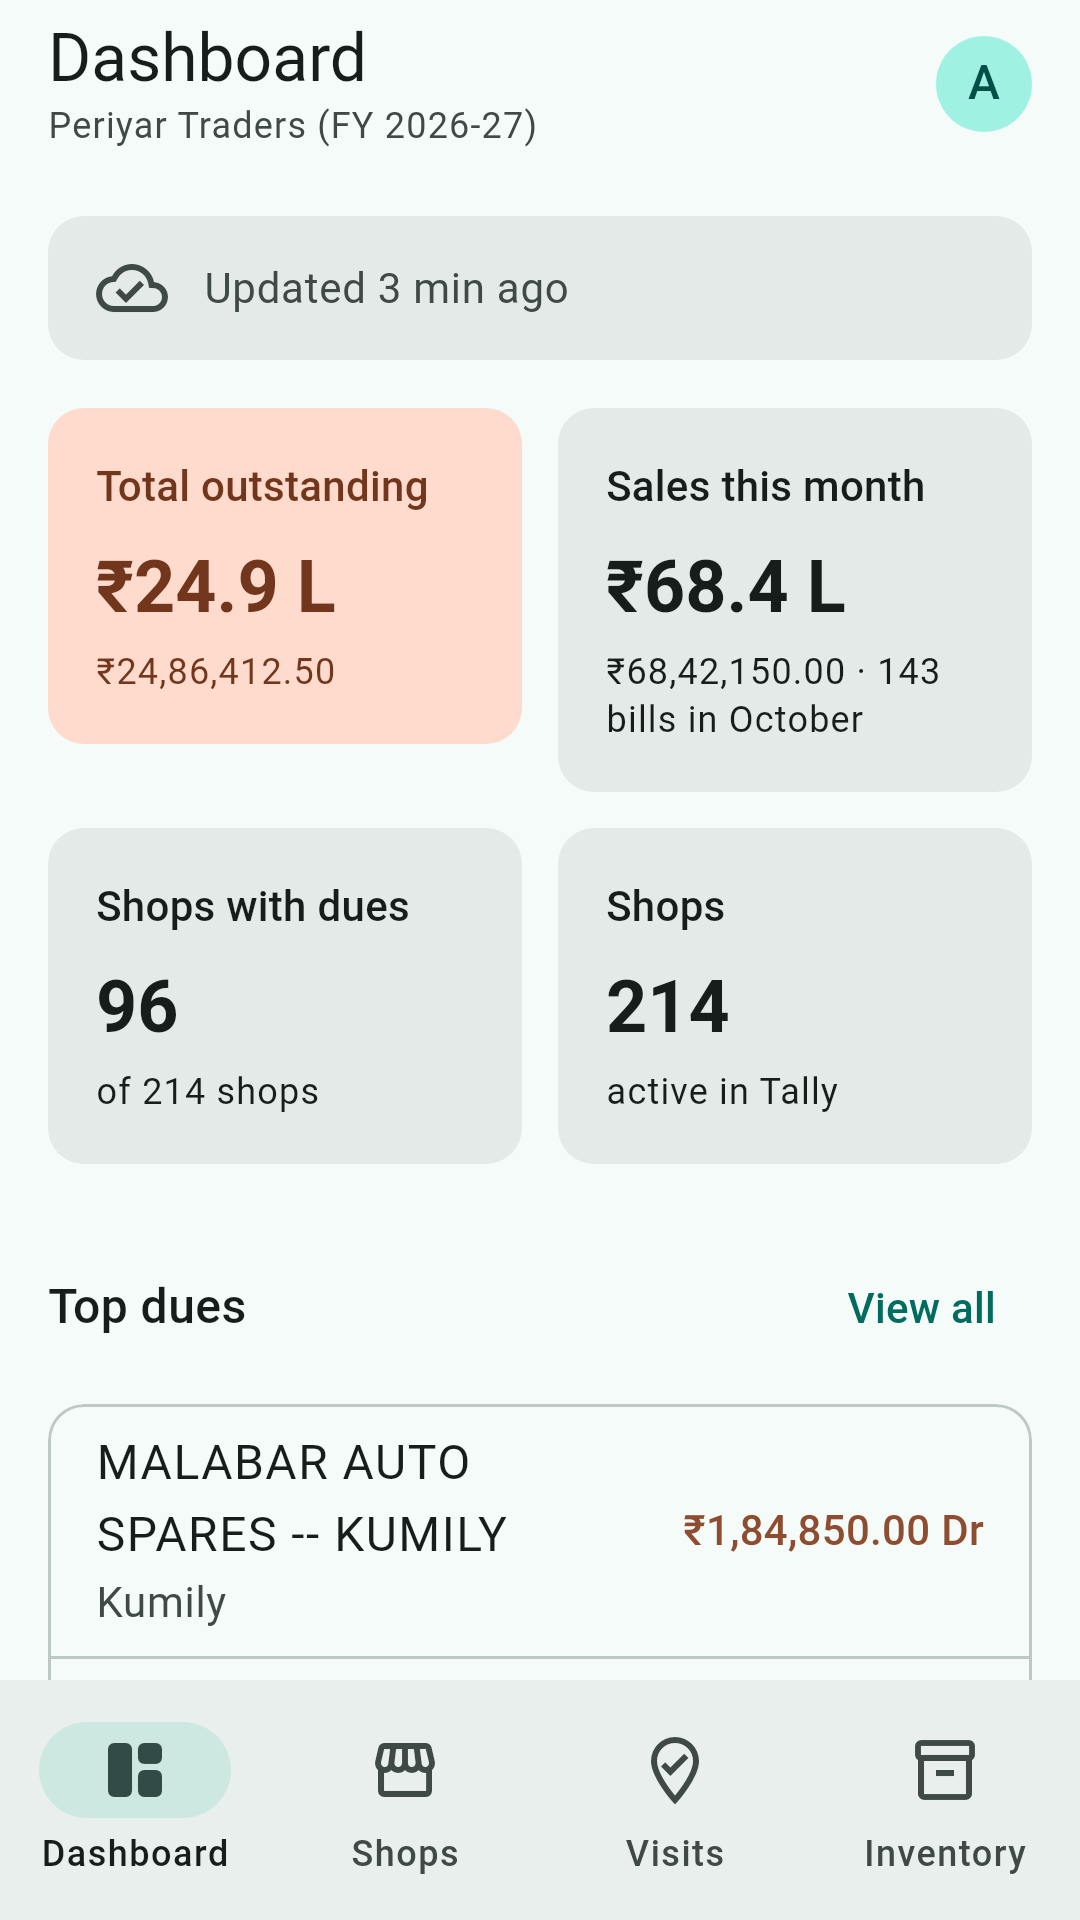
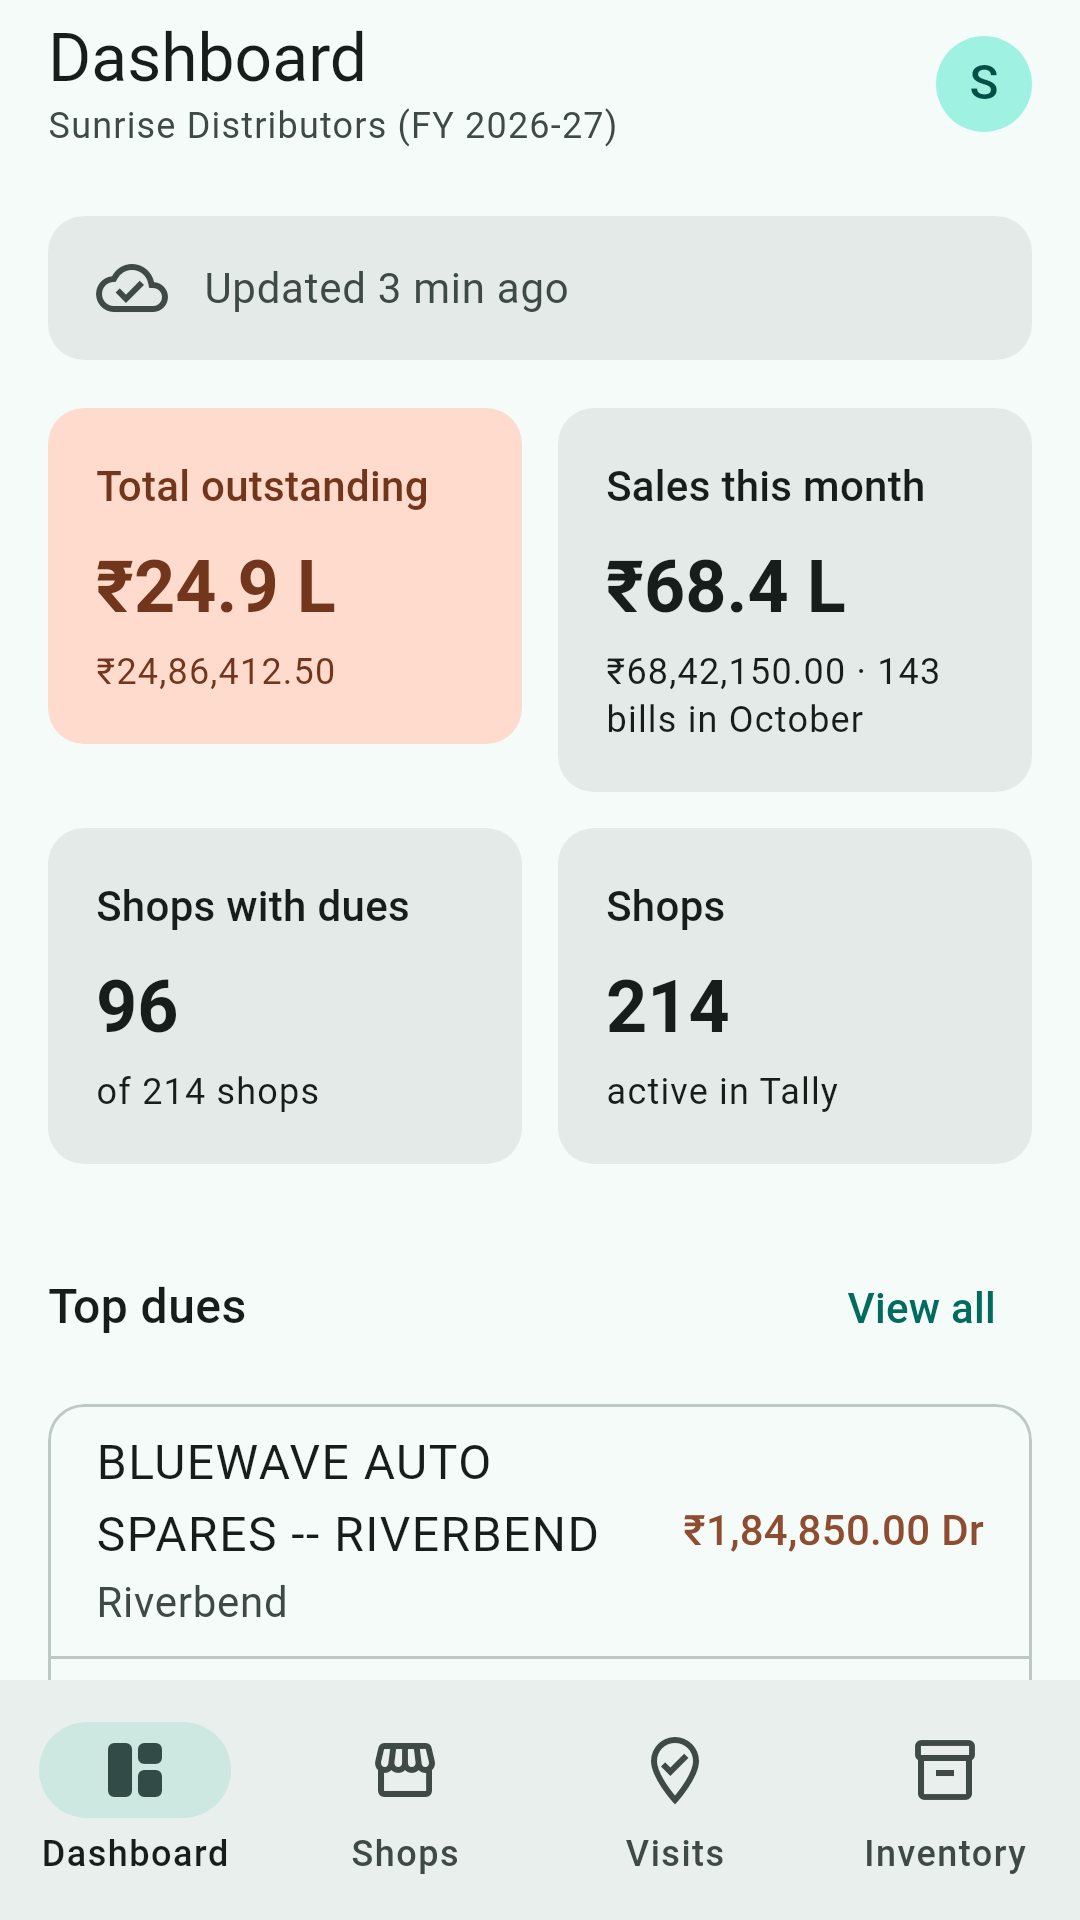
fix(marketing): only fictional data in screenshots and store graphics
The screenshot data used real Kerala towns and plausible real shop names.
Now: Sunrise Distributors, invented shops in fictional towns (Riverbend,
Hillview, Lakeside…), staff 'Sam'. Both modes capture at ×3, so the
website gets real 720 px images instead of upscaled ones. Regenerated the
website screenshots and share image, the Play screenshots and feature
graphics.

diff --git a/wholeflow_app/test/marketing/screenshots_test.dart b/wholeflow_app/test/marketing/screenshots_test.dart
@@ -1,9 +1,9 @@
 // Renders real app screens with invented data for the product website
 // (website/img). Skipped in the normal test run; to regenerate:
 //
-//   WF_SCREENSHOTS=1 flutter test test/marketing --update-goldens
+//   WF_SCREENSHOTS=1 flutter test test/marketing
 //
-// Output: test/marketing/out/*.png at 360×800 (the website scales them).
+// Output: test/marketing/out/*.png at 1080×2400 (360×800 logical, captured at ×3).
 //
 // Google Play phone screenshots (9:16, 1080×1920, captured at ×3):
 //
@@ -68,8 +68,8 @@ final _skip = Platform.environment['WF_SCREENSHOTS'] == null;
 /// Play Store mode: 9:16 screens written at full resolution.
 final _play = Platform.environment['WF_SCREENSHOTS'] == 'play';
 
-const _company = Company(id: 'co', companyName: 'Periyar Traders (FY 2026-27)', syncStatus: 'SYNCED');
-const _staff = AppUser(id: 'staff-1', businessId: 'biz', role: UserRole.staff, name: 'Anand', requiresCheckIn: true);
+const _company = Company(id: 'co', companyName: 'Sunrise Distributors (FY 2026-27)', syncStatus: 'SYNCED');
+const _staff = AppUser(id: 'staff-1', businessId: 'biz', role: UserRole.staff, name: 'Sam', requiresCheckIn: true);
 
 ShopSummary _shop(String id, String name, String site, int rupees, {int paise = 0}) => ShopSummary(
   id: id,
@@ -81,21 +81,21 @@ ShopSummary _shop(String id, String name, String site, int rupees, {int paise = 
 );
 
 final _shops = [
-  _shop('s1', 'MALABAR AUTO SPARES -- KUMILY', 'Kumily', 184850),
-  _shop('s2', 'HIGHRANGE TYRE HOUSE -- KATTAPPANA', 'Kattappana', 152900),
-  _shop('s3', 'GREENVALLEY MOTORS -- NEDUMKANDAM', 'Kattappana', 96420, paise: 50),
-  _shop('s4', 'CARDAMOM HILLS AGENCIES -- VANDANMEDU', 'Kumily', 74880),
-  _shop('s5', 'RIVERSIDE LUBES -- ADIMALI', 'Adimali', 61200),
-  _shop('s6', 'TEAVALLEY AUTO CENTRE -- THODUPUZHA', 'Thodupuzha', 48315),
-  _shop('s7', 'MISTY PEAK MOTOR WORKS -- MUNNAR', 'Adimali', 33760),
-  _shop('s8', 'KAILAS TYRES -- KUMILY', 'Kumily', -12500),
+  _shop('s1', 'BLUEWAVE AUTO SPARES -- RIVERBEND', 'Riverbend', 184850),
+  _shop('s2', 'NORTHSTAR TYRE HOUSE -- HILLVIEW', 'Hillview', 152900),
+  _shop('s3', 'EVERGREEN MOTORS -- MAPLE JUNCTION', 'Hillview', 96420, paise: 50),
+  _shop('s4', 'BRIGHT STAR AGENCIES -- SILVER OAK', 'Riverbend', 74880),
+  _shop('s5', 'COMET LUBES -- LAKESIDE', 'Lakeside', 61200),
+  _shop('s6', 'ZENITH AUTO CENTRE -- GREENFIELD', 'Greenfield', 48315),
+  _shop('s7', 'ORBIT MOTOR WORKS -- CORAL BAY', 'Lakeside', 33760),
+  _shop('s8', 'NOVA TYRES -- RIVERBEND', 'Riverbend', -12500),
 ];
 
 const _sites = [
-  Site(id: 'site-kumily', companyId: 'co', name: 'Kumily'),
-  Site(id: 'site-kattappana', companyId: 'co', name: 'Kattappana'),
-  Site(id: 'site-adimali', companyId: 'co', name: 'Adimali'),
-  Site(id: 'site-thodupuzha', companyId: 'co', name: 'Thodupuzha'),
+  Site(id: 'site-riverbend', companyId: 'co', name: 'Riverbend'),
+  Site(id: 'site-hillview', companyId: 'co', name: 'Hillview'),
+  Site(id: 'site-lakeside', companyId: 'co', name: 'Lakeside'),
+  Site(id: 'site-greenfield', companyId: 'co', name: 'Greenfield'),
 ];
 
 final _today = DateTime.now();
@@ -129,13 +129,13 @@ OverdueShop _overdue(
 });
 
 final _overdueShops = [
-  _overdue('s2', 'HIGHRANGE TYRE HOUSE -- KATTAPPANA', 'Kattappana', 152900, 88400, 52, [
+  _overdue('s2', 'NORTHSTAR TYRE HOUSE -- HILLVIEW', 'Hillview', 152900, 88400, 52, [
     (82, 'Sales · PT/1183', 51200),
     (64, 'Sales · PT/1246', 37200),
   ]),
-  _overdue('s1', 'MALABAR AUTO SPARES -- KUMILY', 'Kumily', 184850, 62750, 37, [(67, 'Sales · PT/1209', 62750)]),
-  _overdue('s5', 'RIVERSIDE LUBES -- ADIMALI', 'Adimali', 61200, 24900, 19, [(49, 'Sales · PT/1301', 24900)]),
-  _overdue('s7', 'MISTY PEAK MOTOR WORKS -- MUNNAR', 'Adimali', 33760, 18210, 8, [(38, 'Sales · PT/1352', 18210)]),
+  _overdue('s1', 'BLUEWAVE AUTO SPARES -- RIVERBEND', 'Riverbend', 184850, 62750, 37, [(67, 'Sales · PT/1209', 62750)]),
+  _overdue('s5', 'COMET LUBES -- LAKESIDE', 'Lakeside', 61200, 24900, 19, [(49, 'Sales · PT/1301', 24900)]),
+  _overdue('s7', 'ORBIT MOTOR WORKS -- CORAL BAY', 'Lakeside', 33760, 18210, 8, [(38, 'Sales · PT/1352', 18210)]),
 ];
 
 /// Unpaid bills older than 30 days for the same shops as the Overdue view.
@@ -233,7 +233,7 @@ class _Dashboard implements DashboardRepository {
     return Dashboard(
       summary: const CompanySummary(
         companyId: 'co',
-        companyName: 'Periyar Traders (FY 2026-27)',
+        companyName: 'Sunrise Distributors (FY 2026-27)',
         shops: 214,
         shopsWithDues: 96,
         totalOutstanding: Money(248641250),
@@ -314,7 +314,7 @@ VisitTask _task(String id, String shop, String site, VisitState state) => VisitT
   taskId: id,
   companyId: 'co',
   staffId: 'staff-1',
-  staffName: 'Anand',
+  staffName: 'Sam',
   shopId: 's-$id',
   shopName: shop,
   siteName: site,
@@ -336,27 +336,27 @@ Future<List<Override>> _overrides({AppUser user = owner}) async {
     ),
     shopRepositoryProvider.overrideWithValue(
       FakeShopRepository(
-        companyName: 'Periyar Traders (FY 2026-27)',
+        companyName: 'Sunrise Distributors (FY 2026-27)',
         shops: _shops,
         detailShop: const ShopDetail(
           id: 's1',
           companyId: 'co',
-          name: 'MALABAR AUTO SPARES -- KUMILY',
-          area: 'Kumily',
+          name: 'BLUEWAVE AUTO SPARES -- RIVERBEND',
+          area: 'Riverbend',
           receivable: Money(18485000),
         ),
       ),
     ),
     dashboardRepositoryProvider.overrideWithValue(_Dashboard()),
     analyticsRepositoryProvider.overrideWithValue(_Analytics()),
-    overdueRepositoryProvider.overrideWithValue(FakeOverdueRepository(_overdueShops, 'Periyar Traders (FY 2026-27)')),
+    overdueRepositoryProvider.overrideWithValue(FakeOverdueRepository(_overdueShops, 'Sunrise Distributors (FY 2026-27)')),
     siteRepositoryProvider.overrideWithValue(
       FakeSiteRepository(
         sitesList: _sites,
         reportRows: const [
           SiteReportRow(
-            siteId: 'site-kumily',
-            siteName: 'Kumily',
+            siteId: 'site-riverbend',
+            siteName: 'Riverbend',
             shops: 58,
             shopsWithDues: 31,
             outstanding: Money(84213000),
@@ -366,8 +366,8 @@ Future<List<Override>> _overrides({AppUser user = owner}) async {
             collections: Money(161520000),
           ),
           SiteReportRow(
-            siteId: 'site-kattappana',
-            siteName: 'Kattappana',
+            siteId: 'site-hillview',
+            siteName: 'Hillview',
             shops: 64,
             shopsWithDues: 29,
             outstanding: Money(76054250),
@@ -377,8 +377,8 @@ Future<List<Override>> _overrides({AppUser user = owner}) async {
             collections: Money(198410000),
           ),
           SiteReportRow(
-            siteId: 'site-adimali',
-            siteName: 'Adimali',
+            siteId: 'site-lakeside',
+            siteName: 'Lakeside',
             shops: 47,
             shopsWithDues: 22,
             outstanding: Money(52896000),
@@ -388,8 +388,8 @@ Future<List<Override>> _overrides({AppUser user = owner}) async {
             collections: Money(127250000),
           ),
           SiteReportRow(
-            siteId: 'site-thodupuzha',
-            siteName: 'Thodupuzha',
+            siteId: 'site-greenfield',
+            siteName: 'Greenfield',
             shops: 45,
             shopsWithDues: 14,
             outstanding: Money(35478000),
@@ -405,12 +405,12 @@ Future<List<Override>> _overrides({AppUser user = owner}) async {
     visitRepositoryProvider.overrideWithValue(
       FakeVisitRepository(
         taskList: [
-          _task('1', 'MALABAR AUTO SPARES -- KUMILY', 'Kumily', VisitState.verified),
-          _task('2', 'CARDAMOM HILLS AGENCIES -- VANDANMEDU', 'Kumily', VisitState.verified),
-          _task('3', 'KAILAS TYRES -- KUMILY', 'Kumily', VisitState.verified),
-          _task('4', 'THEKKADY MOTOR STORES -- KUMILY', 'Kumily', VisitState.pending),
-          _task('5', 'SPICE ROUTE AUTOMOBILES -- KUMILY', 'Kumily', VisitState.pending),
-          _task('6', 'HILLVIEW TYRE POINT -- CHELIMADA', 'Kumily', VisitState.pending),
+          _task('1', 'BLUEWAVE AUTO SPARES -- RIVERBEND', 'Riverbend', VisitState.verified),
+          _task('2', 'BRIGHT STAR AGENCIES -- SILVER OAK', 'Riverbend', VisitState.verified),
+          _task('3', 'NOVA TYRES -- RIVERBEND', 'Riverbend', VisitState.verified),
+          _task('4', 'PIONEER MOTOR STORES -- RIVERBEND', 'Riverbend', VisitState.pending),
+          _task('5', 'GALAXY AUTOMOBILES -- RIVERBEND', 'Riverbend', VisitState.pending),
+          _task('6', 'SUMMIT TYRE POINT -- PALM GROVE', 'Riverbend', VisitState.pending),
         ],
       ),
     ),
@@ -478,18 +478,15 @@ Future<void> _shot(
     await then();
     await tester.pumpAndSettle();
   }
-  if (_play) {
-    final boundary = tester.renderObject<RenderRepaintBoundary>(find.byKey(const Key('shot')));
-    await tester.runAsync(() async {
-      final image = await boundary.toImage(pixelRatio: 3);
-      final png = await image.toByteData(format: ui.ImageByteFormat.png);
-      File('test/marketing/out/play/$name.png')
-        ..createSync(recursive: true)
-        ..writeAsBytesSync(png!.buffer.asUint8List());
-    });
-  } else {
-    await expectLater(find.byKey(const Key('shot')), matchesGoldenFile('out/$name.png'));
-  }
+  // Captured at ×3 (full phone resolution); a golden file would be 1×.
+  final boundary = tester.renderObject<RenderRepaintBoundary>(find.byKey(const Key('shot')));
+  await tester.runAsync(() async {
+    final image = await boundary.toImage(pixelRatio: 3);
+    final png = await image.toByteData(format: ui.ImageByteFormat.png);
+    File('test/marketing/out/${_play ? 'play/' : ''}$name.png')
+      ..createSync(recursive: true)
+      ..writeAsBytesSync(png!.buffer.asUint8List());
+  });
   debugDisableShadows = true; // the test framework checks it is back to its default
 }
 

diff --git a/website/README.md b/website/README.md
@@ -51,11 +51,12 @@ The contact section is a form (name, business, mobile, email, number of Tally co
 
 ## Screenshots
 
-These are the real app screens, rendered by a Flutter test with **invented** data: no real shop, phone number or key.
+These are the real app screens, rendered by a Flutter test with **invented** data: a made-up business (Sunrise Distributors), made-up shops in fictional towns (Riverbend, Hillview, Lakeside…), no real place, shop, person, phone number or key.
 
 ```bash
 cd wholeflow_app
-WF_SCREENSHOTS=1 flutter test test/marketing --update-goldens   # → test/marketing/out/*.png (1080×2400)
+WF_SCREENSHOTS=1 flutter test test/marketing      # → test/marketing/out/*.png (1080×2400)
+WF_SCREENSHOTS=play flutter test test/marketing   # → test/marketing/out/play/*.png (1080×1920, Google Play)
 ```
 
 Then convert them to WebP at 720×1600 and 360×800 into `assets/img/` with the same names: the 720 px version as `<name>.webp`, the 360 px version as `<name>-360.webp`. To re-render the share image, open `tools/og.html` at 1200×630 in a browser and screenshot it (Playwright: `page.screenshot`).
